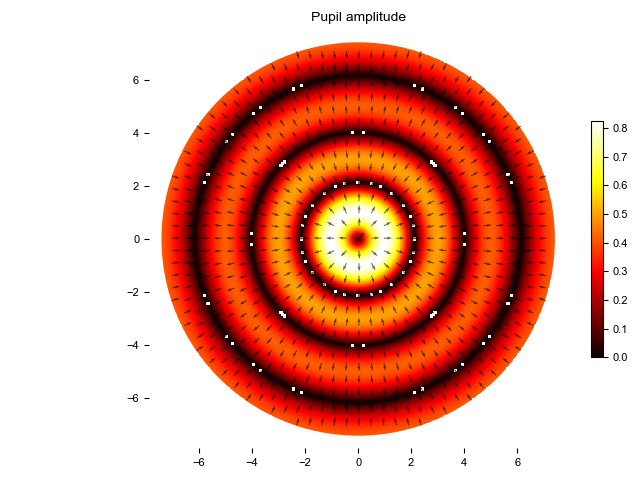
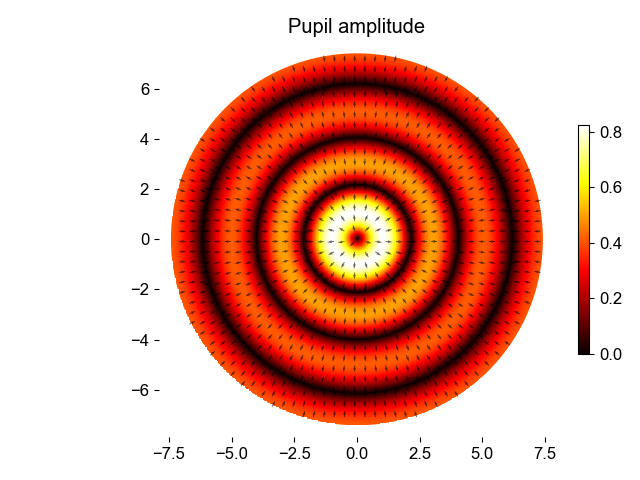
display changes

diff --git a/foci/debye_wolf.py b/foci/debye_wolf.py
@@ -17,7 +17,7 @@ from matplotlib.patches import Ellipse
 from matplotlib import rcParams
 rcParams['font.family'] = 'sans-serif'
 rcParams['font.sans-serif'] = ['Arial']
-rcParams['font.size'] = 8
+rcParams['font.size'] = 12
 
 import cztw
 import numpy as np
@@ -92,7 +92,7 @@ class VectorialPupil(object):
     def modulus(self) -> np.ndarray:
         return np.sqrt(self.x**2 + self.y**2)
     
-    def display(self, downsample: int=None, mask_threshold: float=1E-3, display_phase=True, cmap_amp='Reds', cmap_phase='Blues'):
+    def display(self, downsample: int=None, mask_threshold: float=1E-4, display_phase=True, cmap_amp='Reds', cmap_phase='Blues'):
         """
         Display the pupil.
 
@@ -133,7 +133,7 @@ class VectorialPupil(object):
         plt.figure('Pupil')
         ax1 = plt.subplot(1, (1, 2)[int(display_phase)], 1)
         ax1.add_artist(plt.Circle((0, 0), radius=scaled_aperture / 2, fill=None, linewidth=3, edgecolor='white'))
-        plt.title('Pupil amplitude', fontsize=10)
+        plt.title('Pupil amplitude')
         ax1.spines['top'].set_visible(False)
         ax1.spines['right'].set_visible(False)
         ax1.spines['bottom'].set_visible(False)
@@ -149,7 +149,7 @@ class VectorialPupil(object):
         if display_phase:
             ax2 = plt.subplot(1, 2, 2)
             ax2.add_artist(plt.Circle((0, 0), radius=scaled_aperture / 2, fill=None, linewidth=3, edgecolor='white'))
-            plt.title('Pupil phase', fontsize=10)
+            plt.title('Pupil phase')
             ax2.spines['top'].set_visible(False)
             ax2.spines['right'].set_visible(False)
             ax2.spines['bottom'].set_visible(False)

diff --git a/examples/rplg.py b/examples/rplg.py
@@ -72,7 +72,7 @@ psf = field.intensity()
 
 # %% Generate figures
 
-pupil.display(downsample=8, cmap_amp='hot', display_phase=False)
+pupil.display(downsample=7, cmap_amp='hot', display_phase=False)
 plt.savefig('rplg-example-pupil')
 
 plt.figure('RP-LG PSF')
